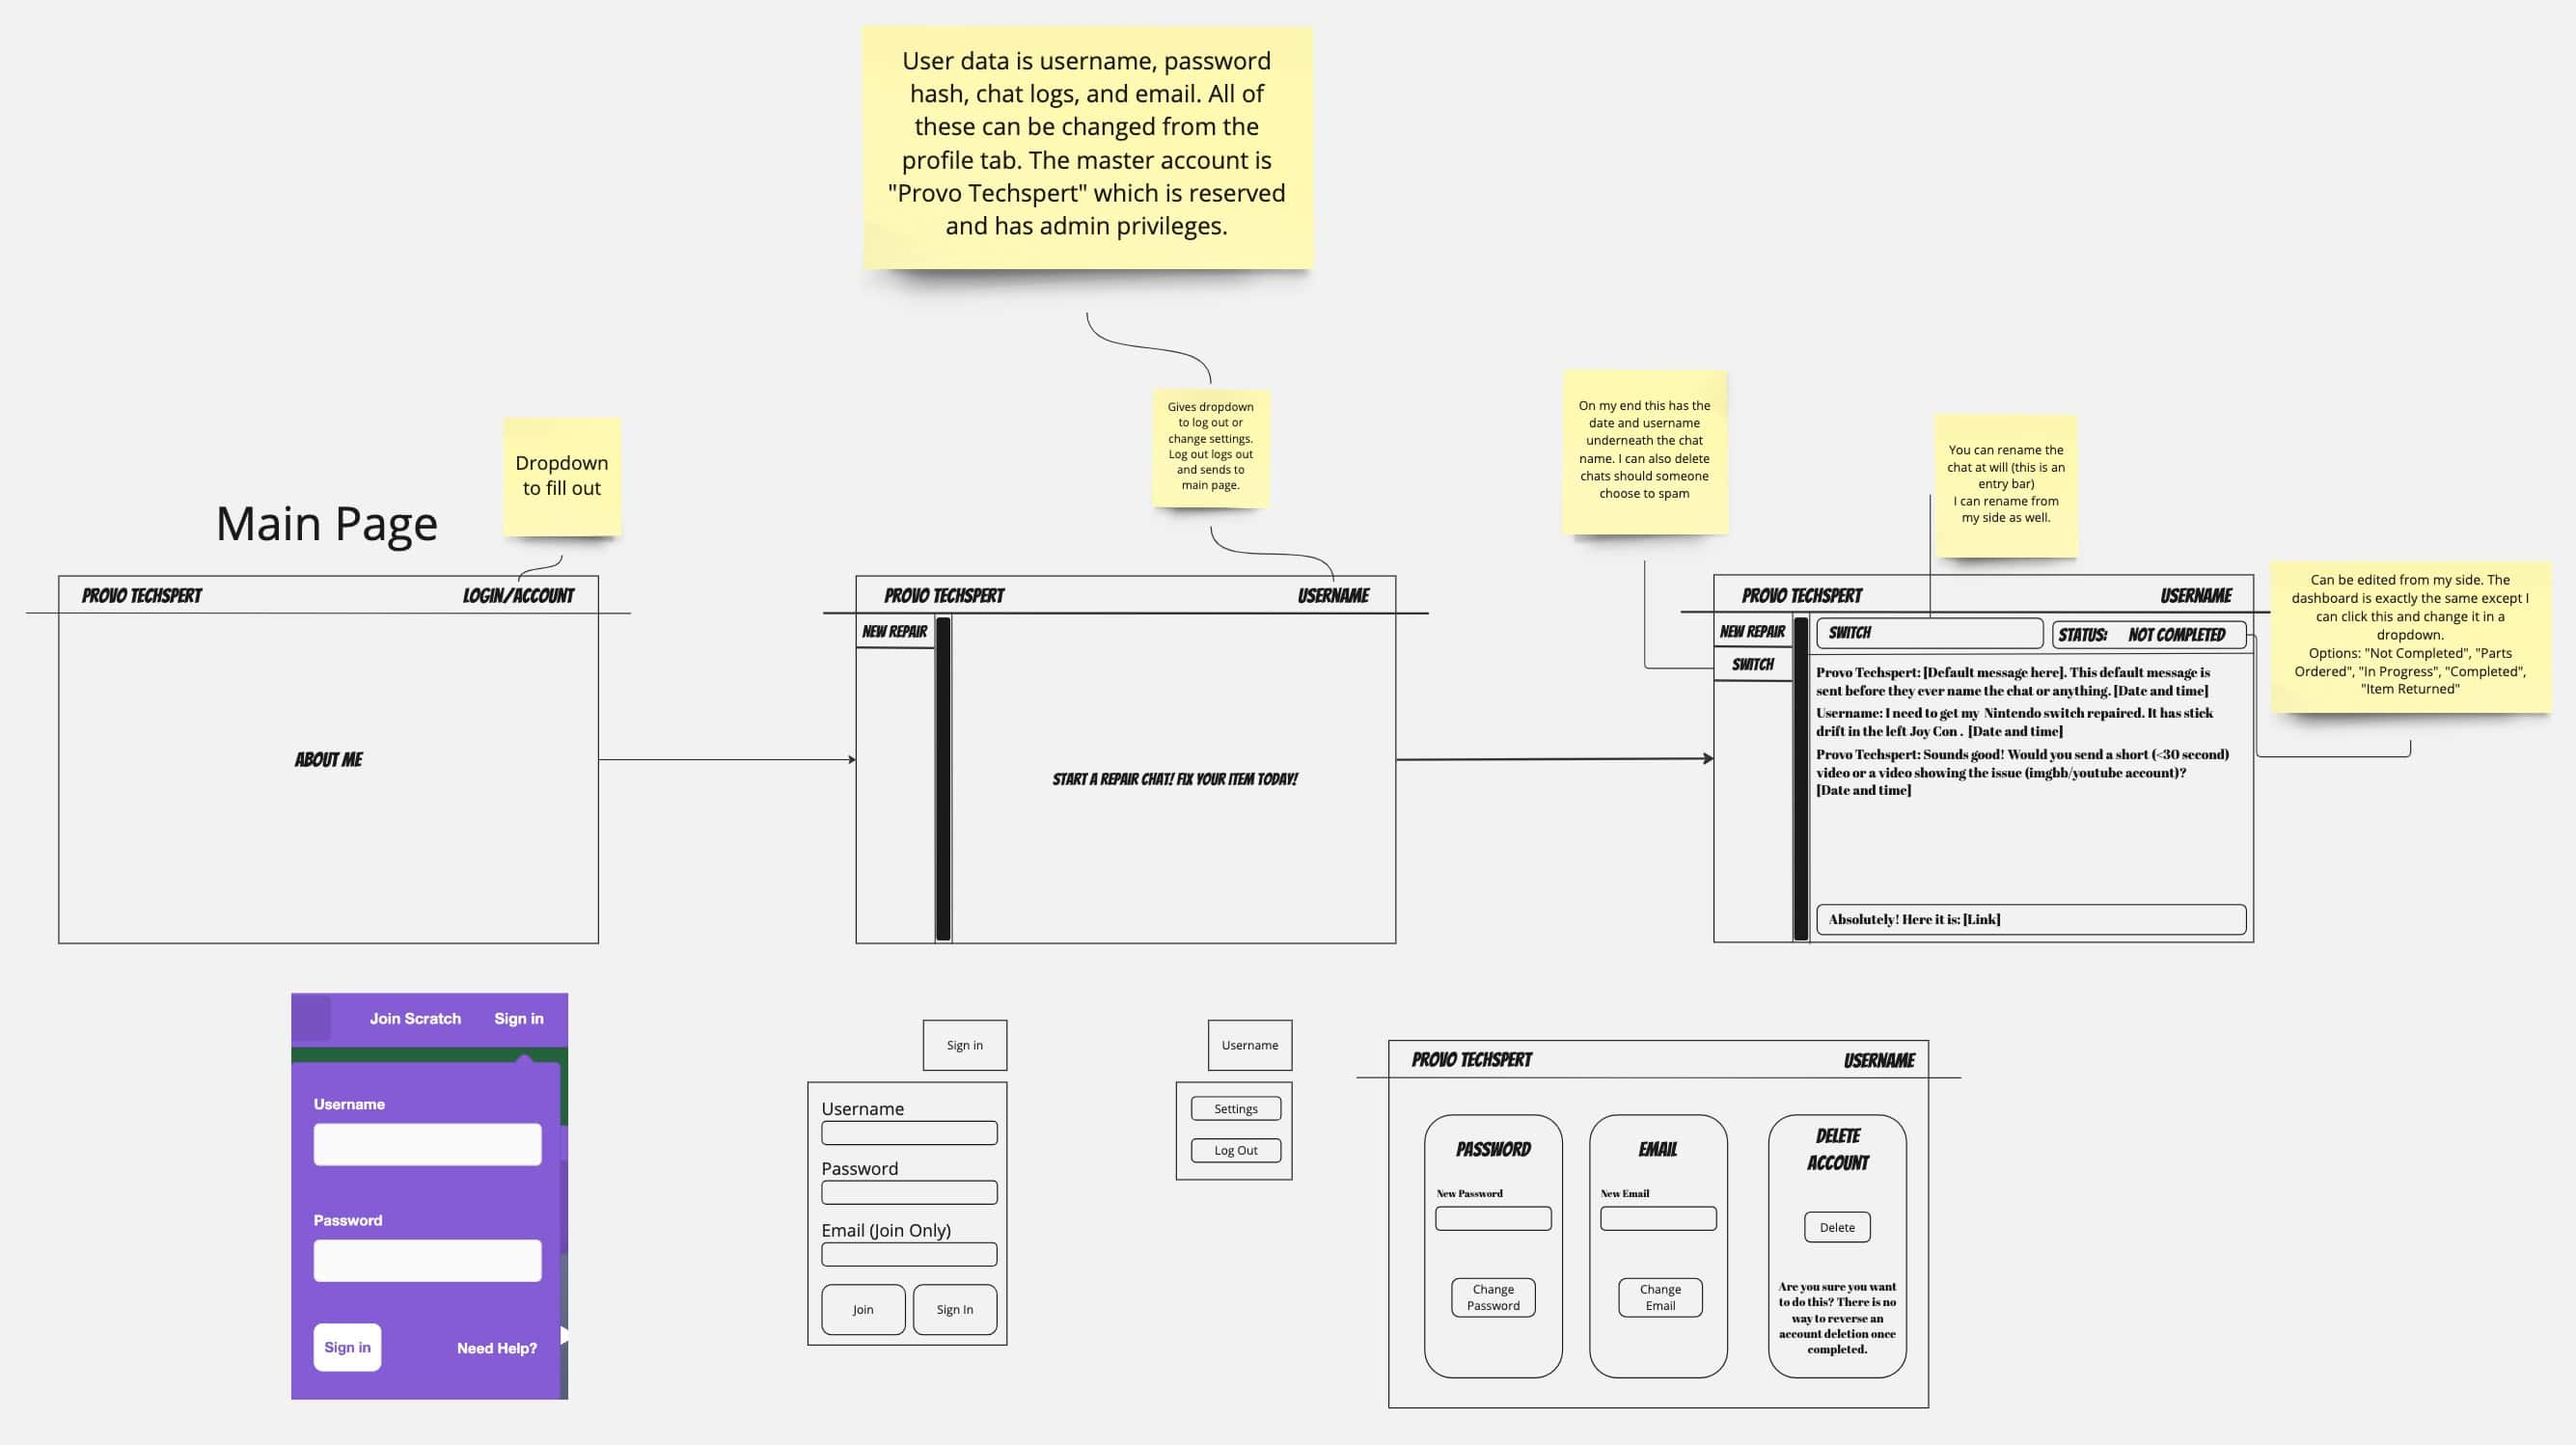
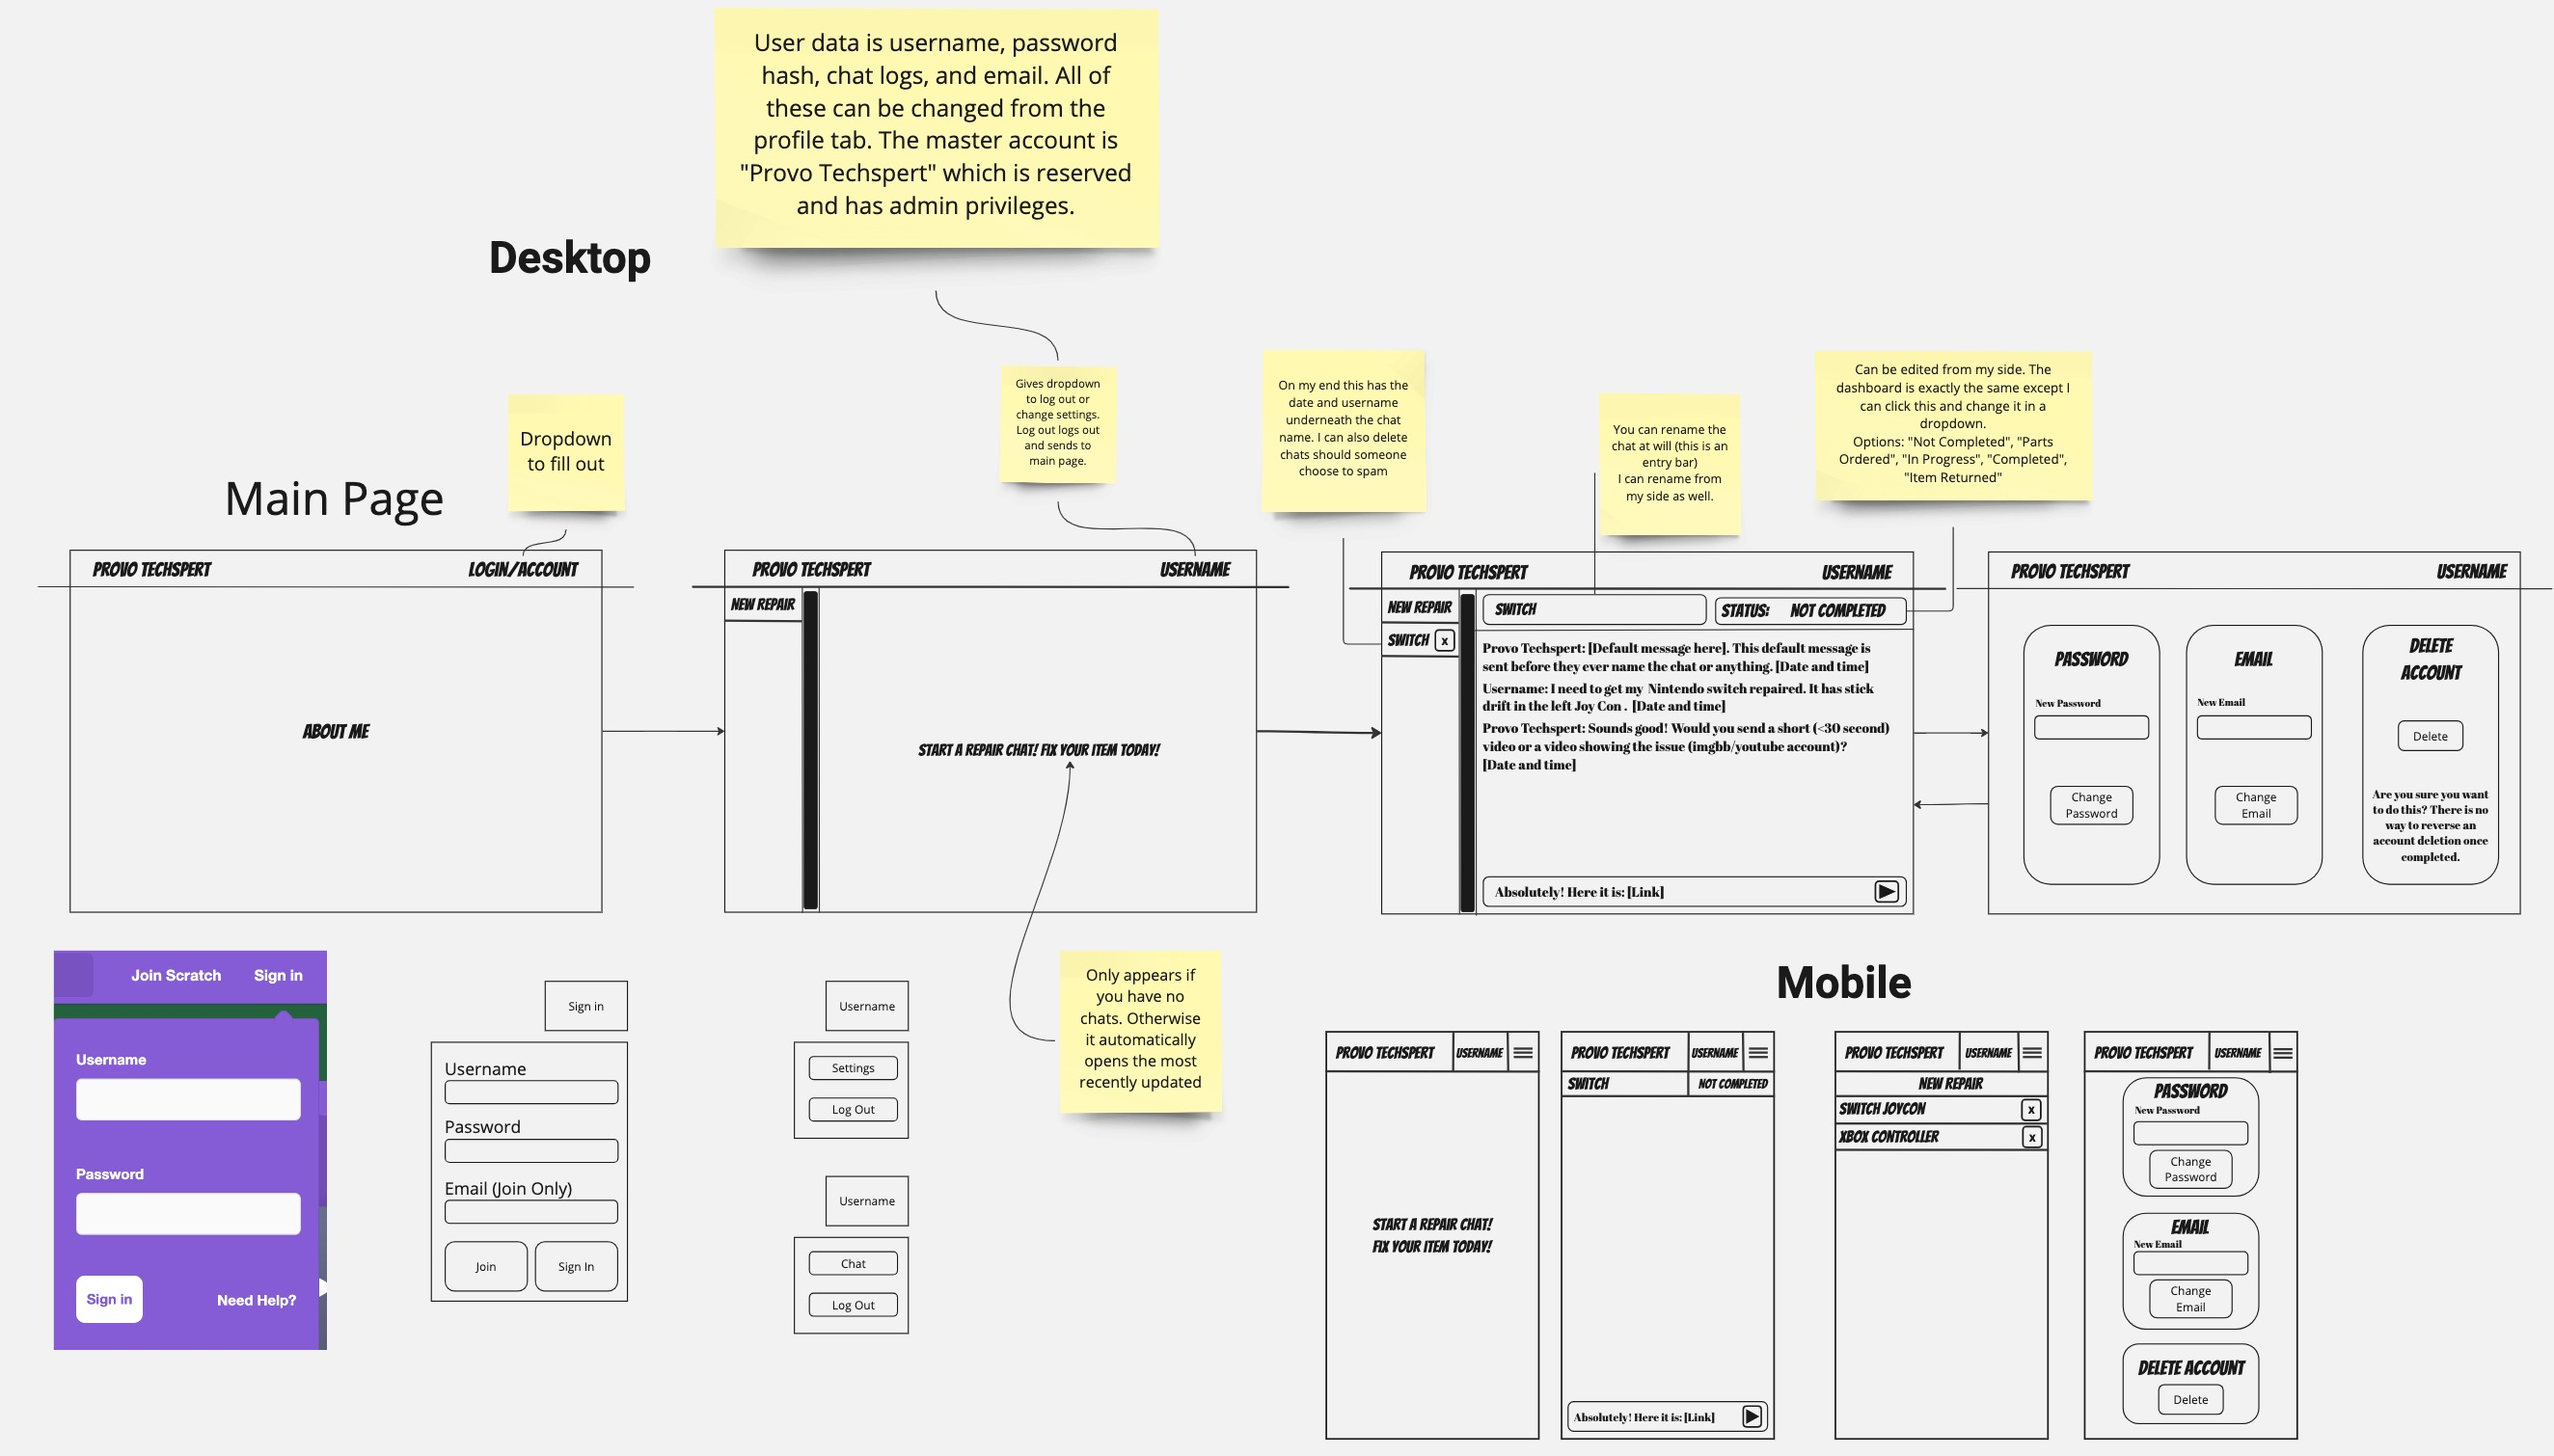
Add mobile plan, improve dropdown

diff --git a/src/components.jsx b/src/components.jsx
@@ -64,13 +64,15 @@ function SettingsDropdownOptions () {
 }
 
 function Dropdown () {
+    // TODO: Make it so hovering opens the dropdown, clicking button toggles state
     var location = useLocation().pathname;
+
     return (
         <div className="dropdown">
-            <button className="main_text normal shadow_down">Join/Sign In</button>
+            <button className="main_text normal shadow_down">{location === "/" ? "Join/Sign In" : "Username"}</button>
             <div className="hidden_div">
                 <div className="dropdown_content">
-                    { location === "/" ? <AboutDropdownOptions /> : location === "/chat/" ? <ChatDropdownOptions /> : <SettingsDropdownOptions />}
+                    {location === "/" ? <AboutDropdownOptions /> : location === "/chat/" ? <ChatDropdownOptions /> : <SettingsDropdownOptions />}
                 </div>
             </div>
         </div>

diff --git a/src/app.jsx b/src/app.jsx
@@ -1,5 +1,5 @@
 import React from "react";
-import { BrowserRouter, Route, Routes, useLocation } from "react-router-dom";
+import { BrowserRouter, Route, Routes } from "react-router-dom";
 import About from "./about/about"
 import Chat from "./chat/chat"
 import Settings from "./settings/settings"
@@ -28,3 +28,4 @@ function App() {
 }
   
 export default App;
+// TODO: Make Tauri Mobile and Desktop bundles
